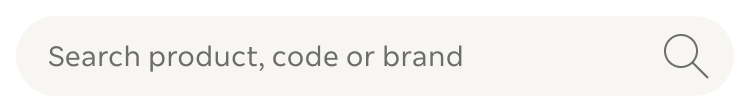
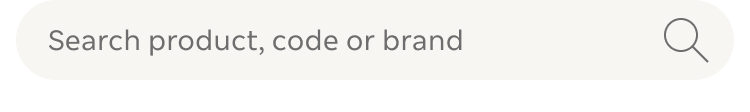
new

diff --git a/sticky3-PLP-stacked.html b/sticky3-PLP-stacked.html
@@ -20,7 +20,7 @@ img { display: block; width: 375px; height: auto; }
 .filters-wrapper { position: relative; }
 
 /* Keep the original elements in flow while their fixed copies take over. */
-.original-header.is-replaced,
+.original-nav-top.is-replaced,
 .filters-wrapper.is-replaced { visibility: hidden; }
 
 /* Fixed copies preserve the original page layout while they are pinned. */
@@ -52,13 +52,12 @@ img { display: block; width: 375px; height: auto; }
     transition: transform 300ms ease;
 }
 
-.fixed-nav-bot {
-    width: 100%;
+.fixed-stack.nav-released .fixed-nav-content {
+    visibility: hidden;
 }
 
-.fixed-stack.nav-released .fixed-nav-content,
-.fixed-stack.nav-released .fixed-nav-bot img {
-    visibility: hidden;
+.fixed-stack.nav-released .fixed-nav {
+    max-height: 0;
 }
 
 .fixed-stack.nav-visible .fixed-nav {
@@ -94,7 +93,7 @@ img { display: block; width: 375px; height: auto; }
         <img src="stripe.png" alt="">
         <div class="nav-wrapper" id="navWrapper">
             <div class="nav">
-                <img src="nav-top.png" alt="">
+                <img class="original-nav-top" id="navTop" src="nav-top.png" alt="">
                 <img id="navBot" src="nav-bot.png" alt="">
             </div>
         </div>
@@ -117,12 +116,8 @@ img { display: block; width: 375px; height: auto; }
 <div class="fixed-stack" id="fixedStack" aria-hidden="true">
     <div class="fixed-nav" id="fixedNav">
         <div class="fixed-nav-content">
-            <img src="stripe.png" alt="">
-            <img src="nav-top.png" alt="">
+            <img id="fixedNavTopImage" src="nav-top.png" alt="">
         </div>
-    </div>
-    <div class="fixed-nav-bot">
-        <img id="fixedNavBotImage" src="nav-bot.png" alt="">
     </div>
     <div class="fixed-filters">
         <img src="filters.png" alt="">
@@ -130,19 +125,17 @@ img { display: block; width: 375px; height: auto; }
 </div>
 
 <script>
+const navTop = document.getElementById('navTop');
 const navBot = document.getElementById('navBot');
-const originalHeader = document.getElementById('originalHeader');
 const filtersWrapper = document.getElementById('filtersWrapper');
 const fixedStack = document.getElementById('fixedStack');
 const fixedNav = document.getElementById('fixedNav');
 const fixedNavContent = document.querySelector('.fixed-nav-content');
-const fixedNavBot = document.querySelector('.fixed-nav-bot');
-const fixedNavBotImage = document.getElementById('fixedNavBotImage');
+const fixedNavTopImage = document.getElementById('fixedNavTopImage');
 const fixedFilters = document.querySelector('.fixed-filters');
 
 let lastScrollY = window.scrollY;
 let fixedMode = false;
-let navIsVisible = false;
 let navReleased = false;
 let fixedFiltersActive = false;
 let lastDirection = null;
@@ -161,20 +154,21 @@ function activateFixedMode() {
     if (fixedMode) return;
 
     fixedMode = true;
-    navIsVisible = false;
     navReleased = false;
     fixedFiltersActive = false;
     lastDirection = 'down';
-    fixedNavBotImage.src = 'nav-bot-burger.png';
+    fixedNavTopImage.src = navBot.getBoundingClientRect().bottom <= 0
+        ? 'nav-bot-burger.png'
+        : 'nav-top.png';
 
-    originalHeader.classList.add('is-replaced');
+    navTop.classList.add('is-replaced');
     fixedStack.classList.remove(
         'nav-visible',
         'nav-released',
         'filters-active',
         'filters-released'
     );
-    fixedStack.classList.add('is-active');
+    fixedStack.classList.add('is-active', 'nav-visible');
     fixedStack.setAttribute('aria-hidden', 'false');
 }
 
@@ -182,11 +176,10 @@ function deactivateFixedMode() {
     if (!fixedMode) return;
 
     fixedMode = false;
-    navIsVisible = false;
     navReleased = false;
     fixedFiltersActive = false;
     lastDirection = null;
-    fixedNavBotImage.src = 'nav-bot.png';
+    fixedNavTopImage.src = 'nav-top.png';
 
     fixedStack.classList.remove(
         'is-active',
@@ -196,22 +189,9 @@ function deactivateFixedMode() {
         'filters-released'
     );
     fixedStack.setAttribute('aria-hidden', 'true');
-    originalHeader.classList.remove('is-replaced');
+    navTop.classList.remove('is-replaced');
     filtersWrapper.classList.remove('is-replaced');
 }
-
-function showNav() {
-    if (!fixedMode || navIsVisible) return;
-    navIsVisible = true;
-    fixedStack.classList.add('nav-visible');
-}
-
-function hideNav() {
-    if (!fixedMode || !navIsVisible) return;
-    navIsVisible = false;
-    fixedStack.classList.remove('nav-visible');
-}
-
 
 function releaseFiltersToPage() {
     if (!fixedMode || !fixedFiltersActive) return;
@@ -236,7 +216,7 @@ function syncFiltersHandoff(direction) {
     const originalTop = filtersWrapper.getBoundingClientRect().top;
     const fixedTop = fixedFiltersActive
         ? fixedFilters.getBoundingClientRect().top
-        : fixedNav.getBoundingClientRect().height + fixedNavBot.offsetHeight;
+        : fixedNav.getBoundingClientRect().height;
 
     if (direction === 'up' && fixedFiltersActive && originalTop >= fixedTop) {
         releaseFiltersToPage();
@@ -250,18 +230,17 @@ function syncFiltersHandoff(direction) {
 function syncNavHandoff(direction) {
     if (!fixedMode || !direction) return;
 
-    const originalTop = navBot.getBoundingClientRect().top;
-    const fixedTop = fixedNav.getBoundingClientRect().height;
+    const originalTop = navTop.getBoundingClientRect().top;
 
-    if (direction === 'up' && !navReleased && originalTop >= fixedTop) {
+    if (direction === 'up' && !navReleased && originalTop >= 0) {
         navReleased = true;
-        originalHeader.classList.remove('is-replaced');
+        navTop.classList.remove('is-replaced');
         fixedStack.classList.add('nav-released');
     }
 
-    if (direction === 'down' && navReleased && originalTop <= fixedTop) {
+    if (direction === 'down' && navReleased && originalTop <= 0) {
         navReleased = false;
-        originalHeader.classList.add('is-replaced');
+        navTop.classList.add('is-replaced');
         fixedStack.classList.remove('nav-released');
     }
 
@@ -279,19 +258,15 @@ function handleScroll() {
     const direction = delta > 0 ? 'down' : 'up';
 
     if (!fixedMode && direction === 'down' &&
-        navBot.getBoundingClientRect().top <= 0) {
+        navTop.getBoundingClientRect().top <= 0) {
         activateFixedMode();
     }
 
     if (fixedMode) {
-        if (direction !== lastDirection) {
-            fixedNavBotImage.src = direction === 'down'
-                ? 'nav-bot-burger.png'
-                : 'nav-bot.png';
-            if (direction === 'up') showNav();
-            else hideNav();
-            lastDirection = direction;
-        }
+        fixedNavTopImage.src = navBot.getBoundingClientRect().bottom <= 0
+            ? 'nav-bot-burger.png'
+            : 'nav-top.png';
+        lastDirection = direction;
 
         syncNavHandoff(direction);
         syncFiltersHandoff(direction);

diff --git a/sticky3.html b/sticky3.html
@@ -23,6 +23,7 @@ img { display: block; width: 375px; height: auto; }
     pointer-events: none;
     visibility: hidden;
     will-change: transform;
+    transition: transform 300ms ease;
 }
 .sticky-nav.is-active {
     visibility: visible;
@@ -36,7 +37,7 @@ img { display: block; width: 375px; height: auto; }
 
     <div class="nav-wrapper">
         <div class="nav">
-            <img src="nav-top.png" alt="">
+            <img id="navTop" src="nav-top.png" alt="">
             <img id="navBot" src="nav-bot.png" alt="">
         </div>
     </div>
@@ -45,108 +46,47 @@ img { display: block; width: 375px; height: auto; }
 </div>
 
 <div class="sticky-nav" id="stickyNav" aria-hidden="true">
-    <div class="sticky-nav-top" id="stickyNavTop">
-        <img src="stripe.png" alt="">
-        <img src="nav-top.png" alt="">
-    </div>
-    <img id="stickyNavBot" src="nav-bot.png" alt="">
+    <img id="stickyNavImage" src="nav-top.png" alt="">
 </div>
 
 <script>
-const navBot = document.getElementById('navBot');
+const navTop = document.getElementById('navTop');
 const stickyNav = document.getElementById('stickyNav');
-const stickyNavTop = document.getElementById('stickyNavTop');
-const stickyNavBot = document.getElementById('stickyNavBot');
+const stickyNavImage = document.getElementById('stickyNavImage');
 
-let lastScrollY = window.scrollY;
-let lastDirection = null;
 let stickyNavPinned = false;
-let stickyNavAnimation = null;
-
-function stickyNavTopHeight() {
-    return stickyNavTop.getBoundingClientRect().height;
-}
-
-function transitionStickyNav(targetY) {
-    const currentTransform = getComputedStyle(stickyNav).transform;
-    const currentY = currentTransform === 'none'
-        ? -stickyNavTopHeight()
-        : new DOMMatrix(currentTransform).m42;
-
-    if (stickyNavAnimation) stickyNavAnimation.cancel();
-
-    stickyNavAnimation = stickyNav.animate(
-        [
-            { transform: `translateY(${currentY}px)` },
-            { transform: `translateY(${targetY}px)` }
-        ],
-        {
-            duration: matchMedia('(prefers-reduced-motion: reduce)').matches ? 0 : 300,
-            easing: 'ease',
-            fill: 'forwards'
-        }
-    );
-    stickyNavAnimation.onfinish = function () {
-        stickyNav.style.transform = `translateY(${targetY}px)`;
-        stickyNavAnimation.cancel();
-        stickyNavAnimation = null;
-    };
-}
 
 function pinStickyNav() {
-    if (stickyNavPinned) return;
-
     stickyNavPinned = true;
-    stickyNavBot.src = 'nav-bot-burger.png';
     stickyNav.classList.add('is-active');
     stickyNav.setAttribute('aria-hidden', 'false');
-    stickyNav.style.transform = `translateY(${-stickyNavTopHeight()}px)`;
+    stickyNav.style.transform = 'translateY(0)';
 }
 
 function resetStickyNav() {
     stickyNavPinned = false;
-    stickyNavBot.src = 'nav-bot.png';
-    if (stickyNavAnimation) {
-        stickyNavAnimation.cancel();
-        stickyNavAnimation = null;
-    }
+    stickyNavImage.src = 'nav-top.png';
     stickyNav.classList.remove('is-active');
     stickyNav.style.transform = '';
     stickyNav.setAttribute('aria-hidden', 'true');
 }
 
 window.addEventListener('scroll', function () {
-    const currentScrollY = window.scrollY;
-    const delta = currentScrollY - lastScrollY;
+    const navTopPosition = navTop.getBoundingClientRect().top;
 
-    if (Math.abs(delta) < 1) return;
-
-    const direction = delta > 0 ? 'down' : 'up';
-
-    if (direction === 'down' && navBot.getBoundingClientRect().top <= 0) {
+    if (navTopPosition <= 0) {
         pinStickyNav();
-    }
-
-    if (stickyNavPinned && direction !== lastDirection) {
-        stickyNavBot.src = direction === 'down'
+        stickyNavImage.src = navBot.getBoundingClientRect().bottom <= 0
             ? 'nav-bot-burger.png'
-            : 'nav-bot.png';
-        transitionStickyNav(direction === 'up' ? 0 : -stickyNavTopHeight());
-    }
-
-    if (direction === 'up' && stickyNavPinned &&
-        navBot.getBoundingClientRect().top >= stickyNavTopHeight()) {
+            : 'nav-top.png';
+    } else if (stickyNavPinned) {
         resetStickyNav();
     }
 
-    lastDirection = direction;
-    lastScrollY = currentScrollY;
 }, { passive: true });
 
 window.addEventListener('pageshow', function () {
     resetStickyNav();
-    lastScrollY = window.scrollY;
-    lastDirection = null;
 });
 </script>
 </body>
